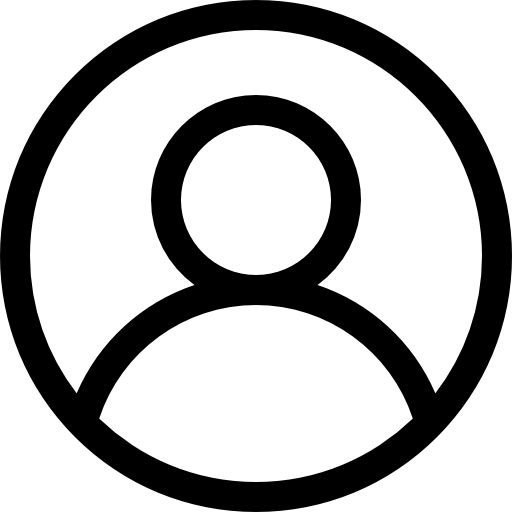
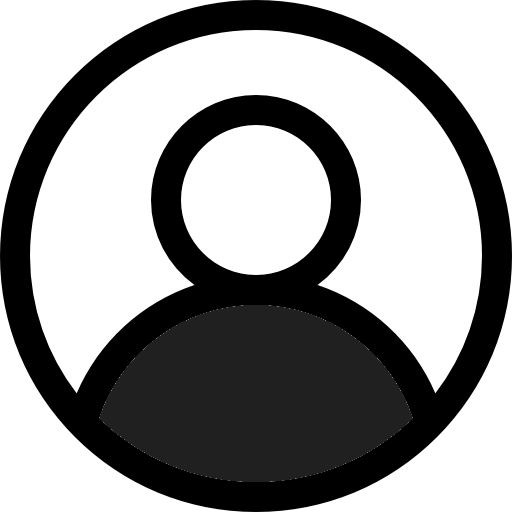
Saving changes

Changed region(s): [[0.1875, 0.5938, 0.8125, 0.9688]]

diff --git a/src/MainPage.jsx b/src/MainPage.jsx
@@ -59,13 +59,13 @@ export default class MainPage extends React.Component {
       <>
         {/* Header */}
         <header id="header">
-          <img src="profile-picture.png" alt="profile picture" />
+          <img src="profile-picture.png" />
         </header>
 
         {/* Inputs container */}
         <div id="inputs-container">
           <InputBox className="grow" cursorDefault>
-            <img src="search.png" alt="search patient" />
+            <img src="search.png" />
             <input
               type="text"
               placeholder="Pesquisar..."
@@ -79,7 +79,7 @@ export default class MainPage extends React.Component {
           </InputBox>
 
           <InputBox onClick={() => this.setState({ displayedModal: "RegistrationEditor" })}>
-            <img src="add-patient.png" alt="add patient" />
+            <img src="add-patient.png" />
             <p>Novo Paciente</p>
           </InputBox>
         </div>
@@ -88,7 +88,7 @@ export default class MainPage extends React.Component {
         <main id="main-area">
           {this.getFilteredNames().map((name, i) => (
             <div key={i} className="row" onClick={() => this.setState({ pid: i })}>
-              <img src="patient-picture.png" alt="patient" />
+              <img src="patient-picture.png" />
               <p
                 className="name pointer"
                 onClick={() => this.setState({ displayedModal: "MedicalRecord" })}

diff --git a/src/storage.js b/src/storage.js
@@ -12,9 +12,9 @@ class Storage {
     }
     // If the storage file was not found
     else {
-      this.sfid = await this.createStorageFile();
-      await this.editStorageFile([]);
       this.patients = [];
+      this.sfid = await this.createStorageFile();
+      await this.editStorageFile(this.patients);
     }
   }
 
@@ -83,7 +83,7 @@ class Storage {
   createPatient() {
     // Creates a new patient locally and returns its PID (Patient Identifier).
     // After creating a patient, you must edit their registration immediately or
-    // the App will crash, since it needs their name to render the MainPage.
+    // the App may crash, since it needs their name to render the MainPage.
     const newPatient = { cadastro: {}, anamnese: {}, registrosDeSessao: [] };
     this.patients = [...this.patients, newPatient];
     return this.patients.length - 1;

diff --git a/src/utils/Select.jsx b/src/utils/Select.jsx
@@ -30,7 +30,7 @@ export default function Select(props) {
   };
 
   return (
-    <div className="select" style={props.noBorder ? { border: "none" } : {}}>
+    <div className="select" style={props.noBorder ? { border: "none", paddingBottom: 0 } : {}}>
       <p className="label">{props.label}</p>
       <div className="options">
         {props.options.map((e, i) => (
@@ -46,7 +46,7 @@ export default function Select(props) {
 }
 
 function CheckBox(props) {
-  return <div className="checkbox">{props.checked && <img src="check.png" alt="check" />}</div>;
+  return <div className="checkbox">{props.checked && <img src="check.png" />}</div>;
 }
 
 function RadioBox(props) {

diff --git a/src/HomePage.jsx b/src/HomePage.jsx
@@ -73,11 +73,11 @@ export default class HomePage extends React.Component {
   render() {
     return (
       <div id="home-page">
-        <img className="app-logo" src="favicon.png" alt="app logo" />
+        <img className="app-logo" src="favicon.png" />
         <h1>Prontuário Virtual</h1>
         {this.state.gapiInited && this.state.gisInited && (
           <InputBox className="auth-btn" onClick={this.handleAuthClick}>
-            <img src="google-logo.png" alt="google logo" />
+            <img src="google-logo.png" />
             Entrar com o Google
           </InputBox>
         )}

diff --git a/src/ModalBodyElements.css b/src/ModalBodyElements.css
@@ -12,16 +12,16 @@
   display: flex;
   align-items: center;
   gap: 1rem;
-  margin-bottom: var(--fs-largest);
+  margin-bottom: 1.5rem;
 }
 
 .mr-section-header:not(:first-child) {
-  margin-top: var(--fs-largest);
+  margin-top: 1.5rem;
 }
 
 .mr-section-header .line {
   flex: 1;
-  height: 1px;
+  height: 2px;
   background: var(--clr-border);
 }
 
@@ -33,7 +33,7 @@
 
 #registration-form .row {
   display: flex;
-  gap: 1rem;
+  gap: 1.5rem;
 }
 
 #registration-form .row:not(:last-child) {

diff --git a/src/SessionLogForm.jsx b/src/SessionLogForm.jsx
@@ -1,7 +1,7 @@
 import TextArea from "./utils/TextArea";
 
 export default function SessionLogForm(props) {
-  // The class usage is due to the multiple forms displayed in the Medical Record
+  // The className usage is due to the multiple forms displayed in the Medical Record
   return (
     <div className="session-log-form">
       <input

diff --git a/src/App.jsx b/src/App.jsx
@@ -13,8 +13,9 @@ export default function App() {
   );
 }
 
+// Permitir alteração de foto de perfil e de cor
 // Verificar comportamento após a expiração do token
-// Deletar registros de sessões e pacientes
+// Deletar pacientes
 // Adicionar opção de anexar documentos no paciente
 // Tornar pago (R$ 20 / mes)
 

diff --git a/src/MedicalRecord.jsx b/src/MedicalRecord.jsx
@@ -21,7 +21,7 @@ export default function MedicalRecord(props) {
       header={<h1>Prontuário</h1>}
       footer={
         <InputBox onClick={print}>
-          <img src="print.png" alt="print" />
+          <img src="print.png" />
           Imprimir
         </InputBox>
       }

diff --git a/src/MainPage.css b/src/MainPage.css
@@ -18,7 +18,8 @@
   display: flex;
   gap: 1rem;
   background: var(--bg-primary-2);
-  padding: 1rem 3rem;
+  padding: 1rem 15%;
+  box-shadow: 0px 2px 4px var(--clr-border);
 }
 
 /* Main Area */
